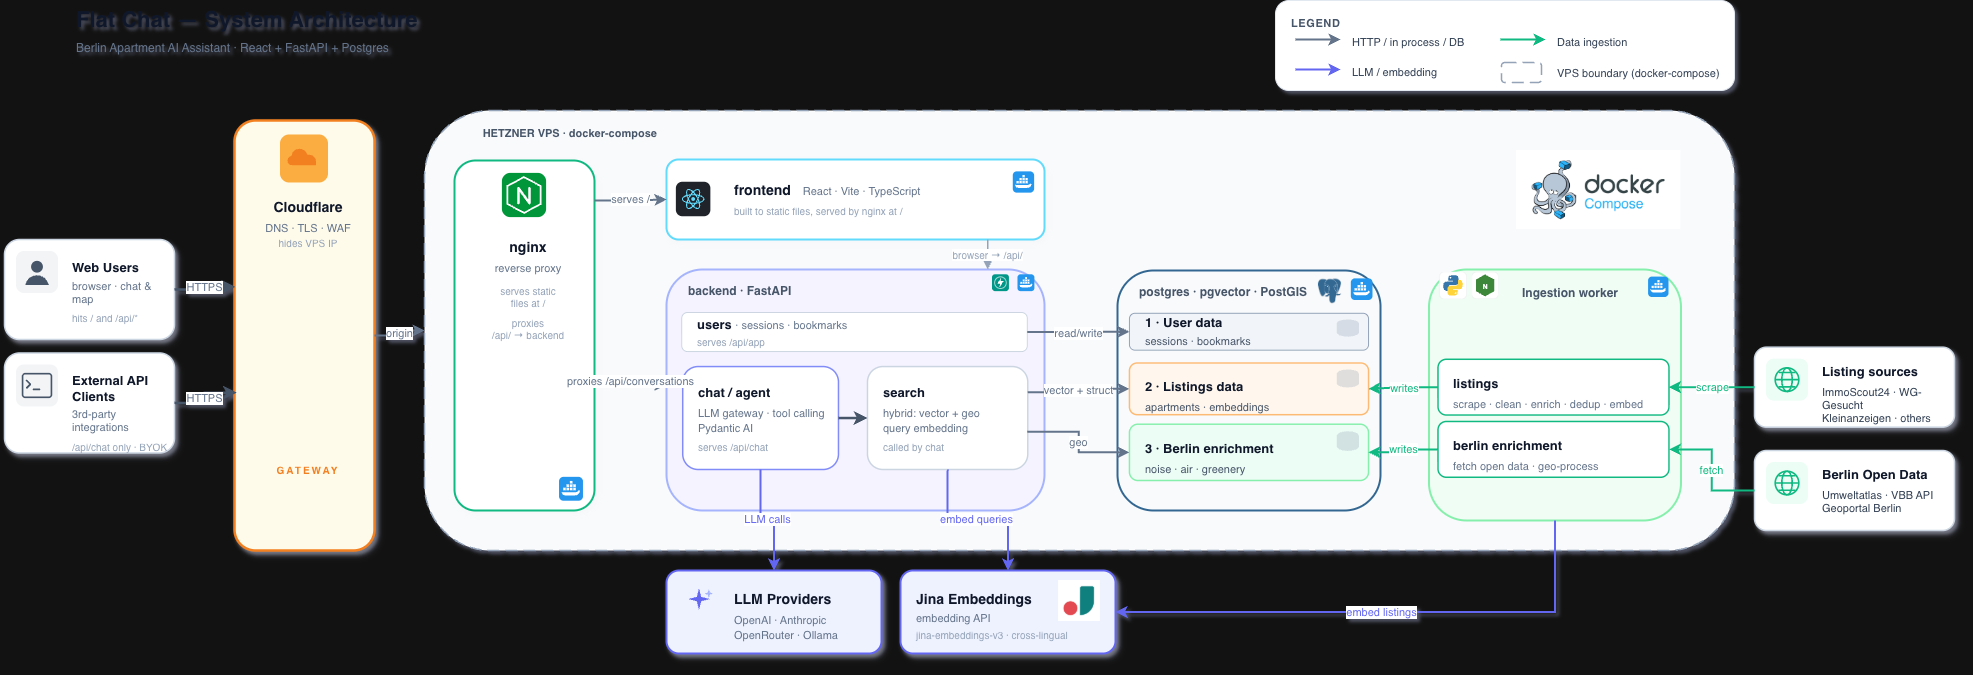
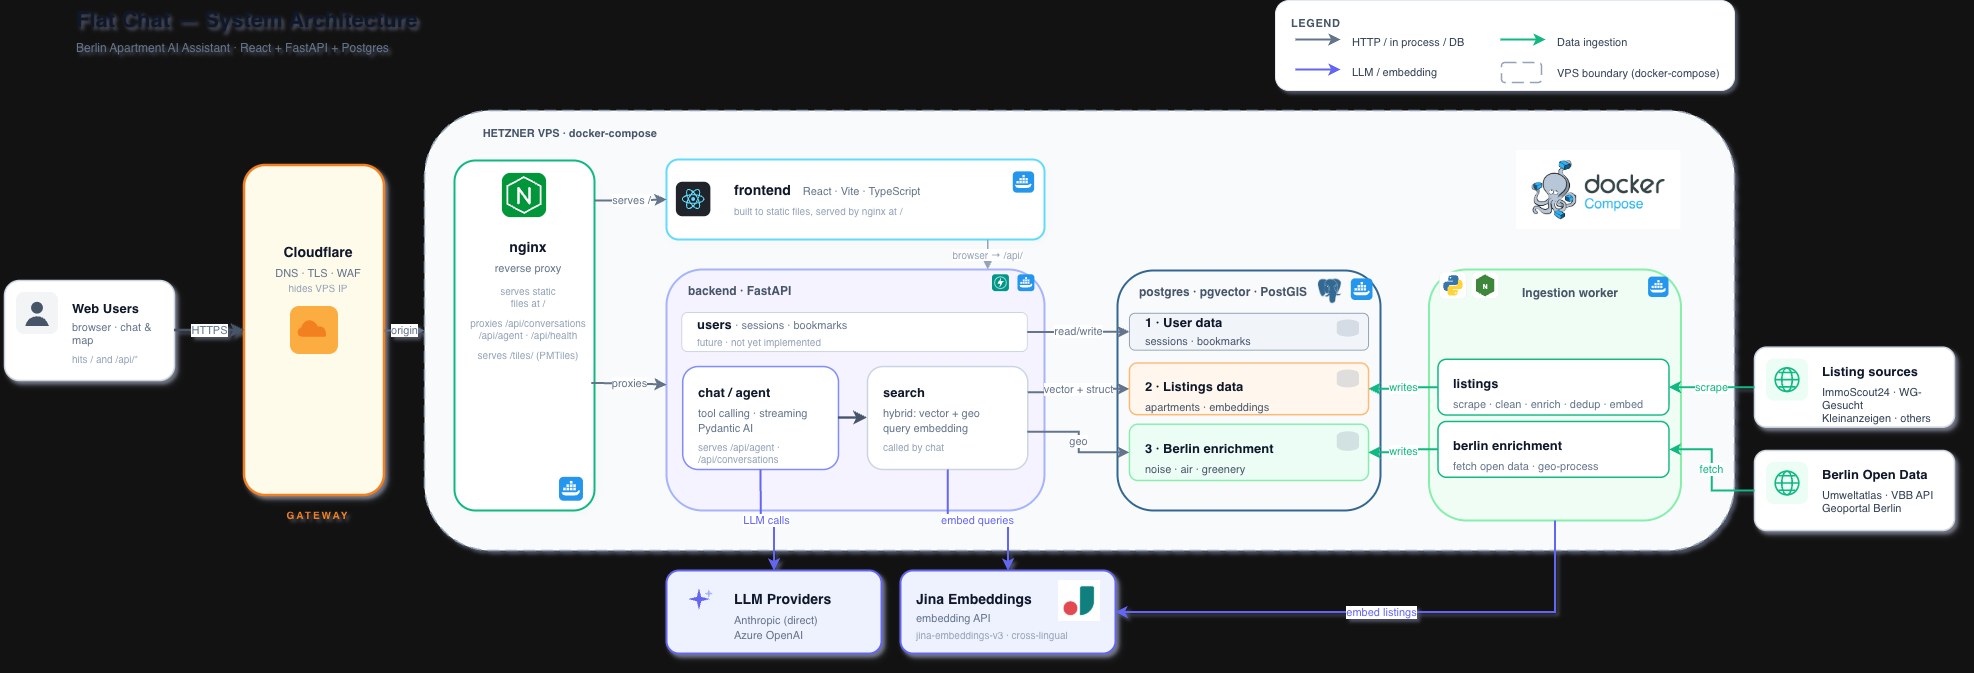
Sync architecture diagram with alpha-0.1.0 reality
Drop the External API Clients actor (not part of MVP), update nginx and
chat module labels to the AG-UI routes (/api/agent, /api/conversations,
/tiles/), swap LLM providers to Anthropic-direct + Azure OpenAI, and
mark the users module as future. Doc + PNG re-rendered to match.

diff --git a/agent-compound-docs/decisions/architecture-diagram.md b/agent-compound-docs/decisions/architecture-diagram.md
@@ -11,7 +11,7 @@ The system architecture diagram for this project lives at the repo root:
 
 The diagram is laid out as horizontal layers, with one dashed VPS boundary that everything internal lives inside:
 
-- **Cloudflare** sits outside the VPS as a tall vertical gateway — both Web Users and External API Clients flow through it on their way to Nginx.
+- **Cloudflare** sits outside the VPS as a vertical gateway — Web Users flow through it on their way to Nginx.
 - **Frontend** (React/Vite) is served by Nginx at `/` — there is intentionally **no arrow** from Frontend to Backend; in-browser fetches go back out through Cloudflare → Nginx → `/api/`.
 - **Backend** is split into clear layers:
   - **Users layer** (top) — `users` module, talks only to the User-data zone of Postgres.
@@ -52,7 +52,7 @@ That invokes draw.io Desktop's CLI and writes `architecture.png` at 2400 px wide
 
 - Frontend is **React + Vite + TypeScript**, not Next.js.
 - Ingestion is **Puppeteer + Python**, not pure-Python.
-- LLM gateway is **LiteLLM**, supports BYOK — diagram shows `via LiteLLM gateway · BYOK or platform key`.
+- LLM dispatch is **Pydantic AI** with native provider clients — selection lives in `services/backend/src/flat_chat/chat/providers/__init__.py` (the single seam). Two providers are wired today: Anthropic-direct (preferred when its key is set, for native prompt caching) and Azure OpenAI as fallback. No LiteLLM in the request path.
 - Postgres uses **both pgvector and PostGIS** in the same database — not split into separate stores.
 - Cloudflare sits **in front of** the VPS for DNS / TLS / WAF and to hide the VPS IP.
 - The frontend talks to the backend **only via the user's browser**, through the same Cloudflare → Nginx ingress — there is no direct Frontend → Backend arrow in the diagram.